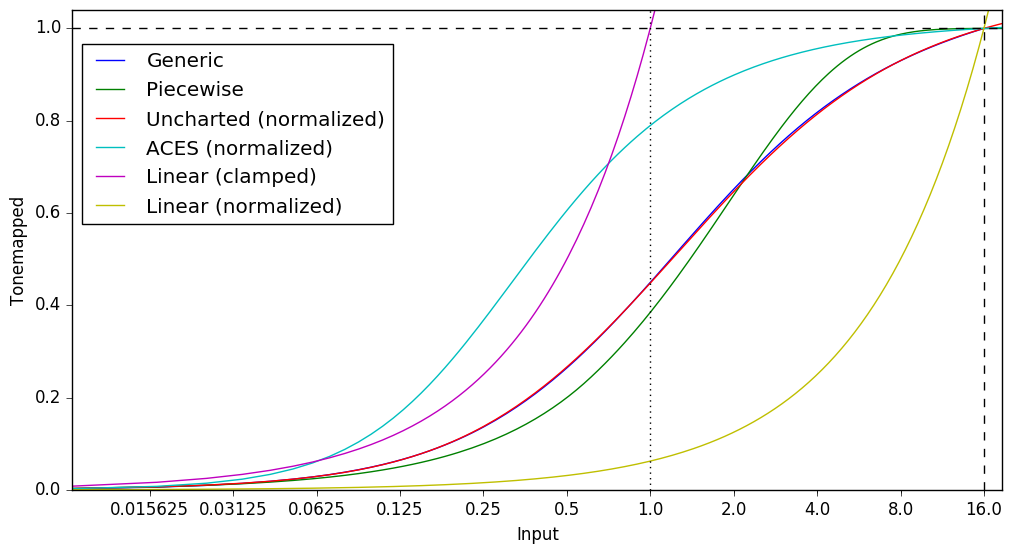
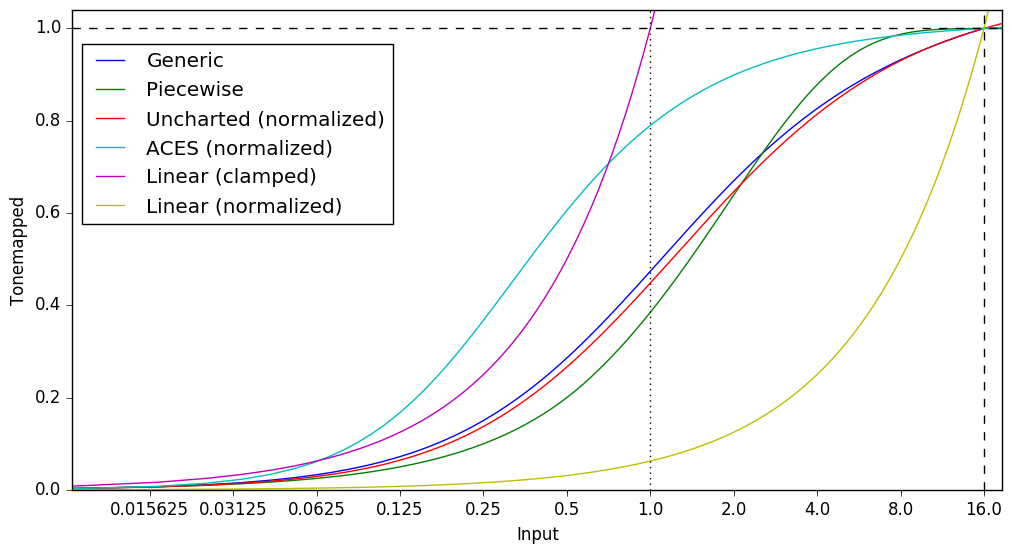
Changed generic settings

diff --git a/tonemapper.py b/tonemapper.py
@@ -14,9 +14,9 @@ import numpy
 class Generic():
     def __init__(self, hdr_max):
         a = 1.2 # contrast
-        d = 0.975 # shoulder
+        d = 0.97 # shoulder
 
-        mid_in = 0.33
+        mid_in = 0.3
         mid_out = 0.18
 
         ad = a * d
